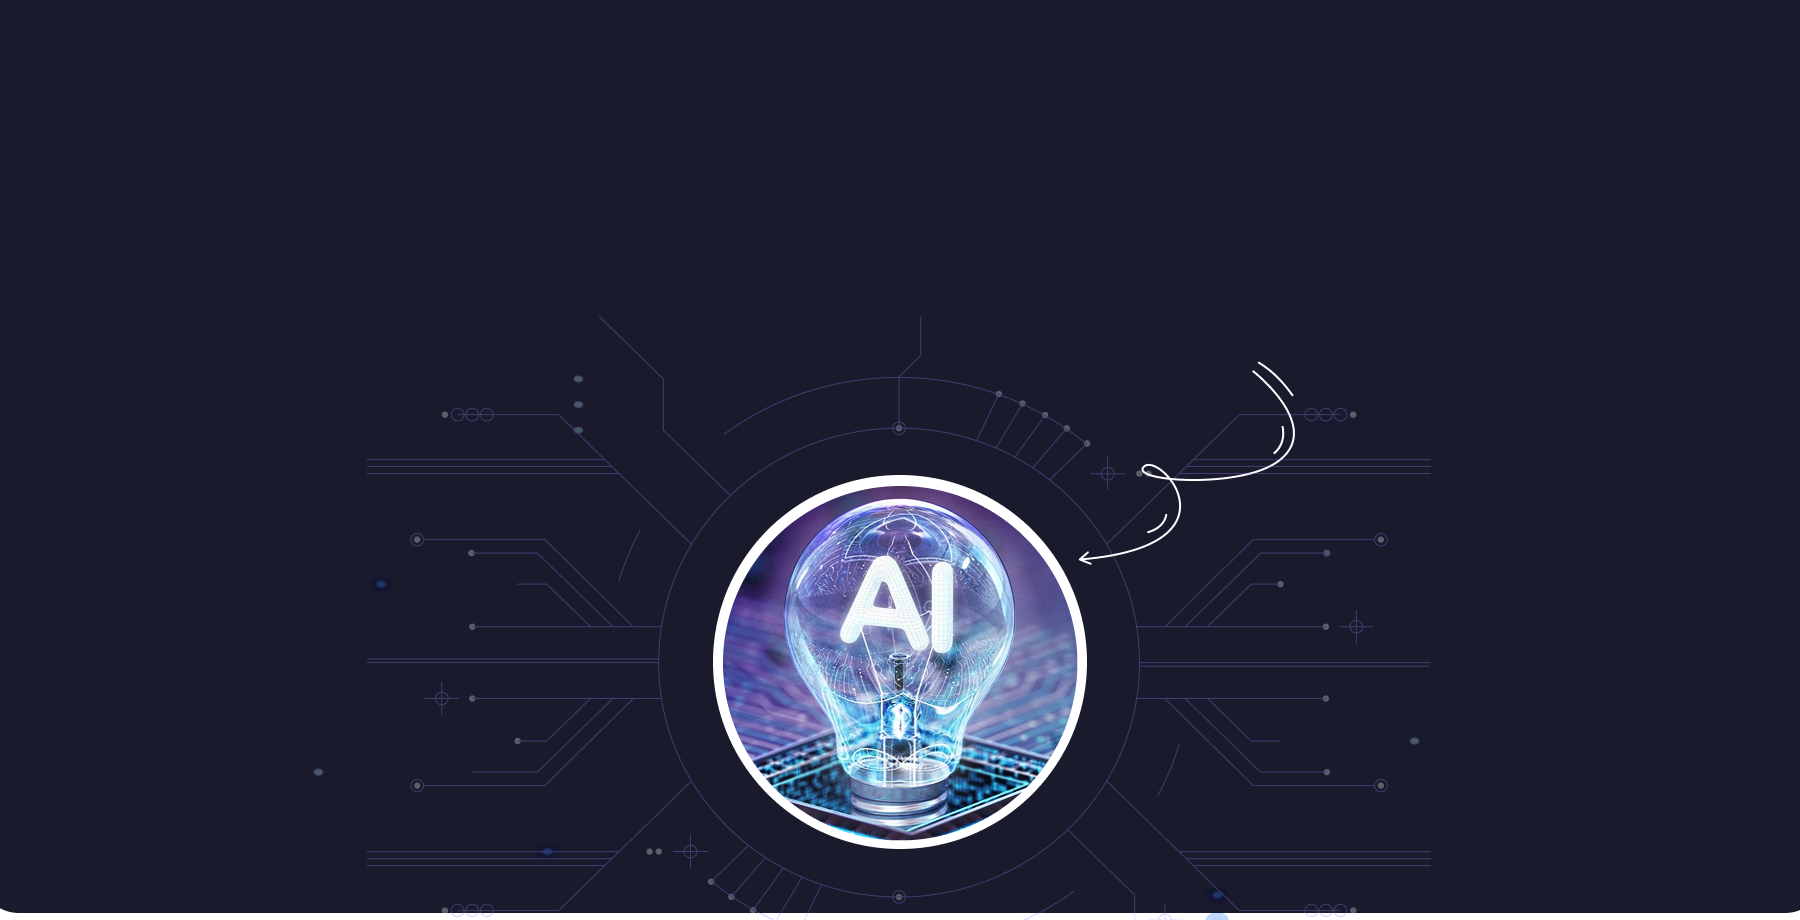
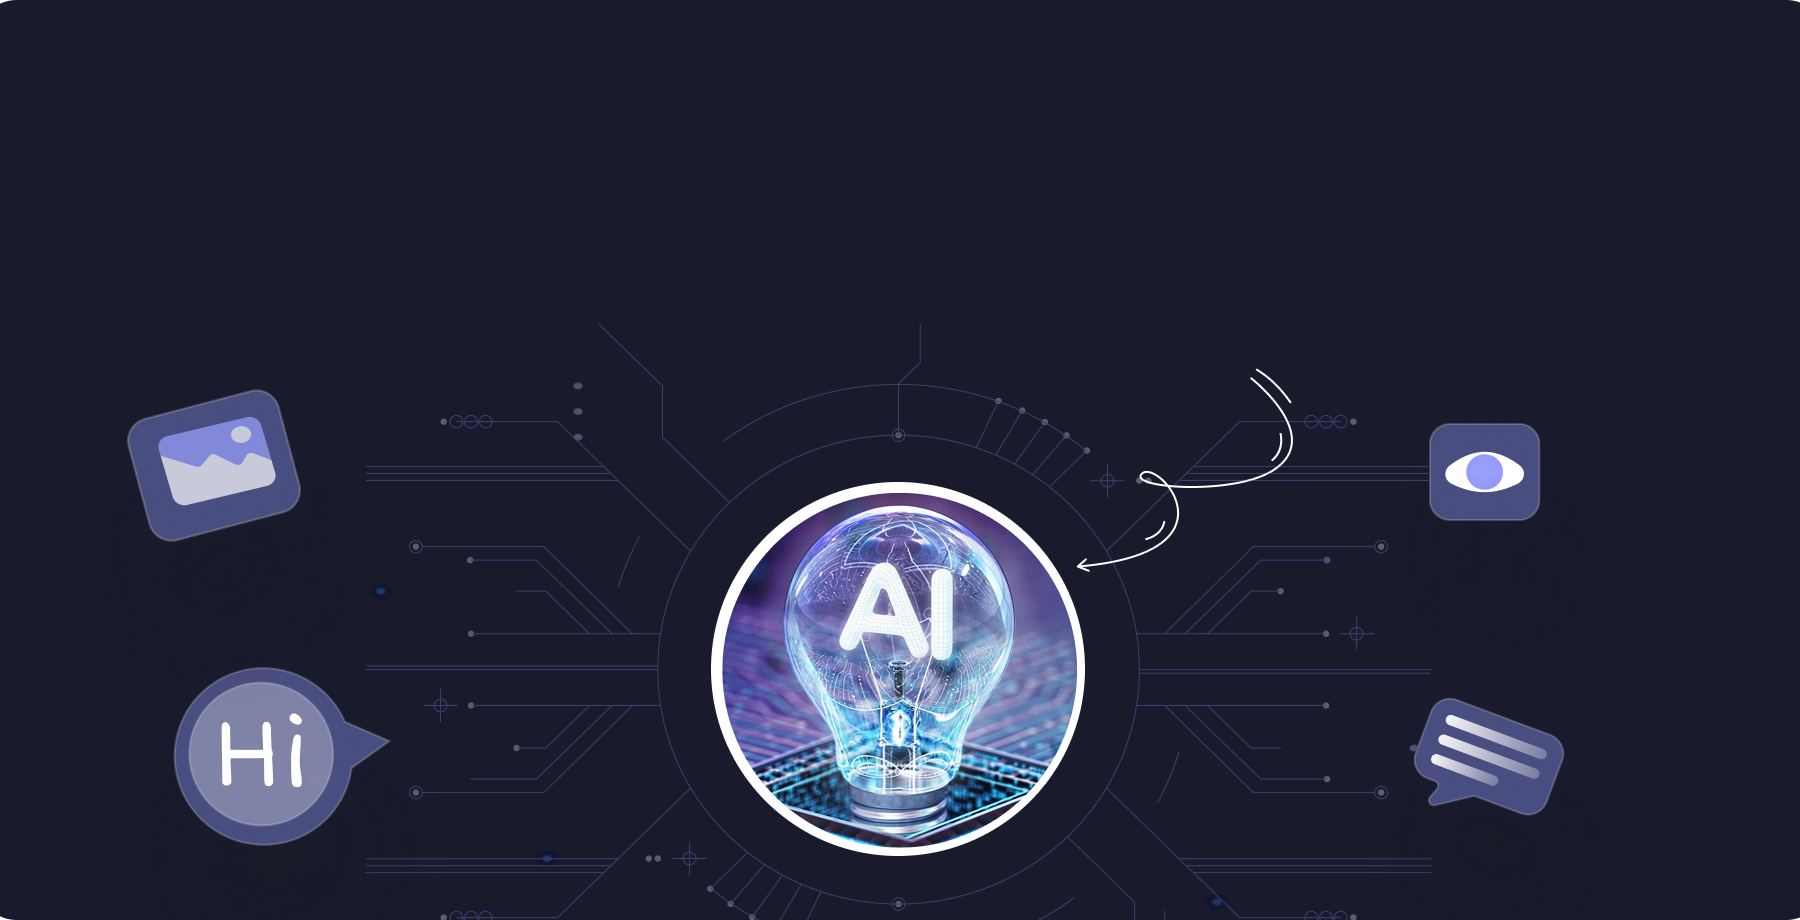
fix landing page

diff --git a/src/components/HomePage/HeaderSection.vue b/src/components/HomePage/HeaderSection.vue
@@ -1,8 +1,5 @@
 <script setup>
-import Icon1 from "../SVG/Icon1.vue";
-import Icon2 from "../SVG/Icon2.vue";
-import Icon3 from "../SVG/Icon3.vue";
-import Icon4 from "../SVG/Icon4.vue";
+import Header from "./Header.vue";
 
 const emit = defineEmits(["handleDisplay"]);
 
@@ -13,85 +10,14 @@ function handleDisplay(item) {
 
 <template>
   <!-- عکس اصلی -->
-  <div class="flex pt-[20vh] flex-col bg-cover bg-center relative" :style="{ backgroundImage: `url(/images/landing.png)`, height: '110vh', minHeight: '600px' }">
-    <div class="text-neutral-100 w-full flex flex-col gap-5">
-      <p class="text-[67px] text-center leading-snug font-bold md:text-[80px] lg:text-[90px]">
+  <div class="flex justify-center pt-[20vh]  bg-cover bg-center" :style="{ backgroundImage: `url(/images/landing.png)`, height: '110vh' }">
+    <div class="text-neutral-100 flex flex-col gap-5">
+      <p class="text-[67px] text-center leading-snug font-bold">
         because each<span class="text-[#2A58FB]"> project</span><br />
         requires<span class="text-[#8400FF]"> specific</span> approach
       </p>
     </div>
-    <div class="relative w-full h-full">
-      <!-- آیکون 1 - بالا چپ -->
-      <div class="absolute top-[25%] left-[15%] md:left-[20%] lg:left-[25%] culg:left-[25%] transform -translate-x-1/2 -translate-y-1/2 floating floating-1">
-        <Icon1 />
-      </div>
-      <!-- آیکون 2 - پایین چپ -->
-      <div class="absolute bottom-[25%] left-[15%] md:left-[20%] lg:left-[25%] culg:left-[25%] transform -translate-x-1/2 translate-y-1/2 floating floating-2 ps-20">
-        <Icon2 />
-      </div>
-      <!-- آیکون 3 - بالا راست -->
-      <div class="absolute top-[25%] right-[15%] md:right-[20%] lg:right-[25%] culg:right-[25%] transform translate-x-1/2 -translate-y-1/2 floating floating-3 ps-20">
-        <Icon3 />
-      </div>
-      <!-- آیکون 4 - پایین راست -->
-      <div class="absolute bottom-[25%] right-[15%] md:right-[20%] lg:right-[25%] culg:right-[25%] transform translate-x-1/2 translate-y-1/2 floating floating-4">
-        <Icon4 />
-      </div>
-    </div>
   </div>
 </template>
 
-<style scoped>
-.floating {
-  animation: float 6s ease-in-out infinite;
-}
-
-.floating-1 {
-  animation-delay: 0s;
-}
-
-.floating-2 {
-  animation-delay: 1.5s;
-  animation-duration: 7s;
-}
-
-.floating-3 {
-  animation-delay: 0.5s;
-  animation-duration: 5.5s;
-}
-
-.floating-4 {
-  animation-delay: 2s;
-}
-
-@keyframes float {
-  0% {
-    transform: translateY(0px) translateX(0px);
-  }
-  50% {
-    transform: translateY(-20px) translateX(10px);
-  }
-  100% {
-    transform: translateY(0px) translateX(0px);
-  }
-}
-
-@media (min-width: 1536px) { /* Tailwind's 2xl breakpoint */
-  .floating-1 {
-    top: 25% !important;
-    left: 25% !important;
-  }
-  .floating-2 {
-    bottom: 25% !important;
-    left: 25% !important;
-  }
-  .floating-3 {
-    top: 25% !important;
-    right: 25% !important;
-  }
-  .floating-4 {
-    bottom: 25% !important;
-    right: 25% !important;
-  }
-}
-</style>
+<style scoped></style>
